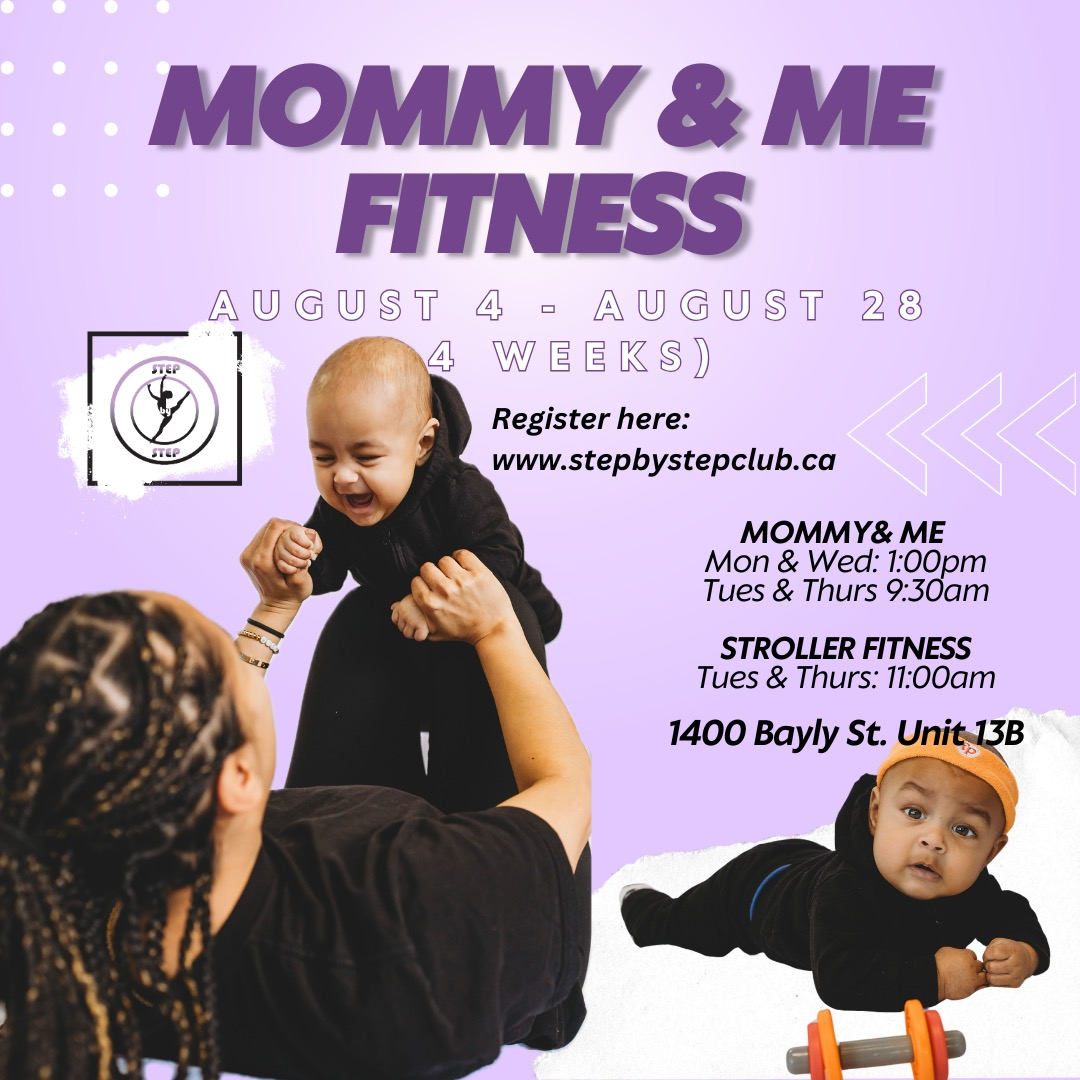
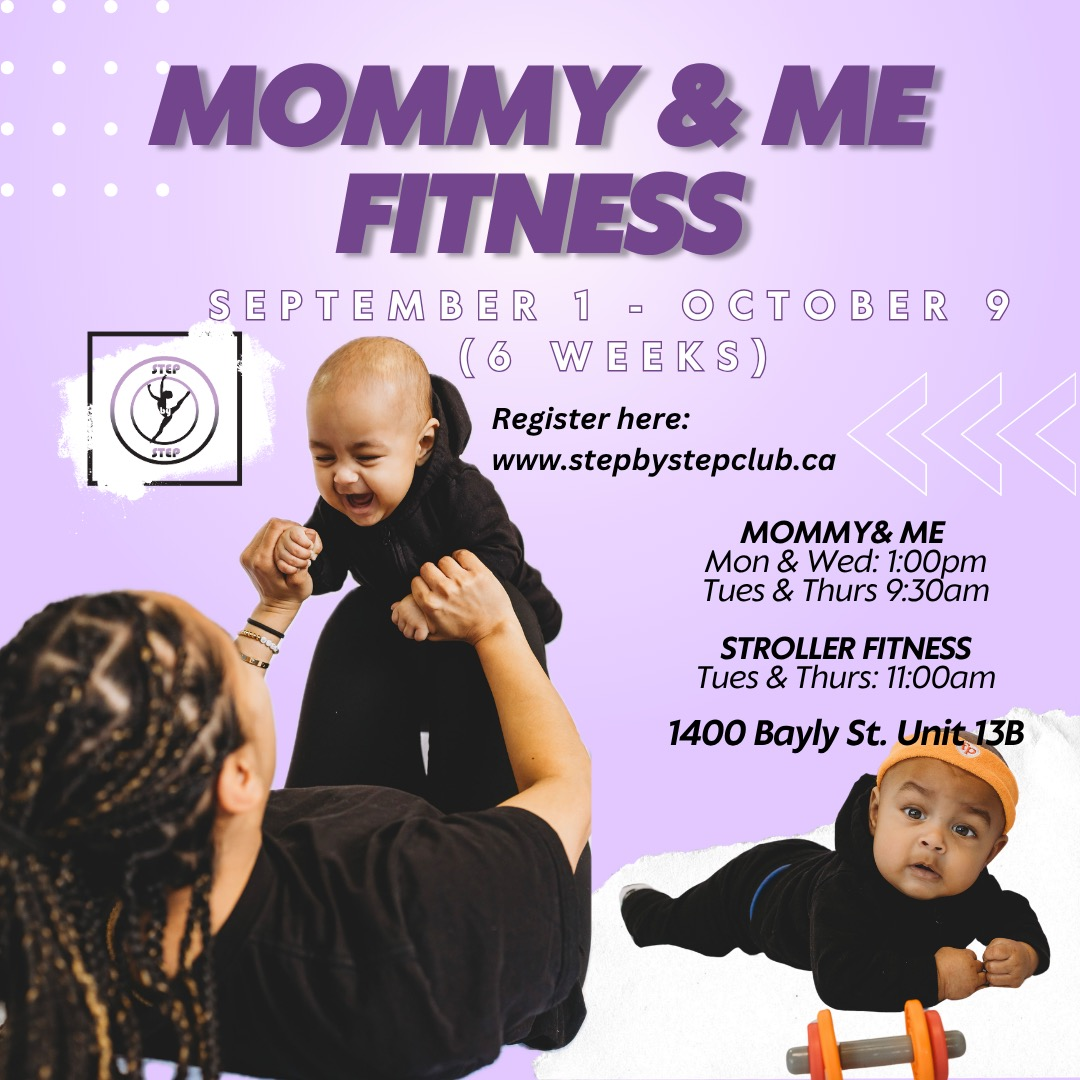
update special events image and link

Changed region(s): [[0.1833, 0.2444, 0.8861, 0.3667], [0.9167, 0.2444, 0.9472, 0.3056], [0.7333, 0.4889, 0.7639, 0.5194]]

diff --git a/client/src/pages/SpecialEvents/SpecialEvents.js b/client/src/pages/SpecialEvents/SpecialEvents.js
@@ -3,7 +3,6 @@ import { useState } from "react";
 import specialEvents3 from "../../assets/images/smallgrouptrain.jpeg";
 import specialEvents4 from "../../assets/images/mom-fitness.jpeg";
 import specialEvents8 from "../../assets/images/strollerfit.jpeg";
-import specialEvents11 from "../../assets/images/bustrip.jpeg";
 import specialEvents12 from "../../assets/images/soca.jpeg";
 
 const SpecialEvents = () => {
@@ -27,16 +26,6 @@ const SpecialEvents = () => {
   };
 
   // ✅ NEW: open email instead of link
-  const openEmail = () => {
-    trackBookingClick("bus_trip_email");
-
-    const subject = encodeURIComponent("Bus Trip Registration");
-    const body = encodeURIComponent(
-      "Hi, I’m interested in registering for the bus trip. Please send details!",
-    );
-
-    window.location.href = `mailto:stepxstepclub@gmail.com?subject=${subject}&body=${body}`;
-  };
 
   const linkToBuyTickets2 = () => {
     openRegistrationLink(
@@ -106,27 +95,7 @@ const SpecialEvents = () => {
         </div>
       </div>
 
-      {/* Event 3 */}
-  
-
-      {/* Event 4 */}
       <div className="special-events__card-wrapper">
-        <div className="special-events__image-container">
-          <img
-            src={specialEvents8}
-            alt="Special Event"
-            className="special-events__image"
-            onClick={() => openMedia(specialEvents8)}
-          />
-          <button
-            className="special-events__button"
-            onClick={linkToBuyTickets7}
-          >
-            Click Here to Register!
-          </button>
-        </div>
-      </div>
-        <div className="special-events__card-wrapper">
         <div className="special-events__image-container">
           <img
             src={specialEvents12}
@@ -143,17 +112,20 @@ const SpecialEvents = () => {
         </div>
       </div>
 
-      {/* Event 6 (EMAIL INSTEAD OF LINK) */}
+      {/* Event 4 */}
       <div className="special-events__card-wrapper">
         <div className="special-events__image-container">
           <img
-            src={specialEvents11}
+            src={specialEvents8}
             alt="Special Event"
             className="special-events__image"
-            onClick={() => openMedia(specialEvents11)}
+            onClick={() => openMedia(specialEvents8)}
           />
-          <button className="special-events__button" onClick={openEmail}>
-            Email to Register
+          <button
+            className="special-events__button"
+            onClick={linkToBuyTickets7}
+          >
+            Click Here to Register!
           </button>
         </div>
       </div>
